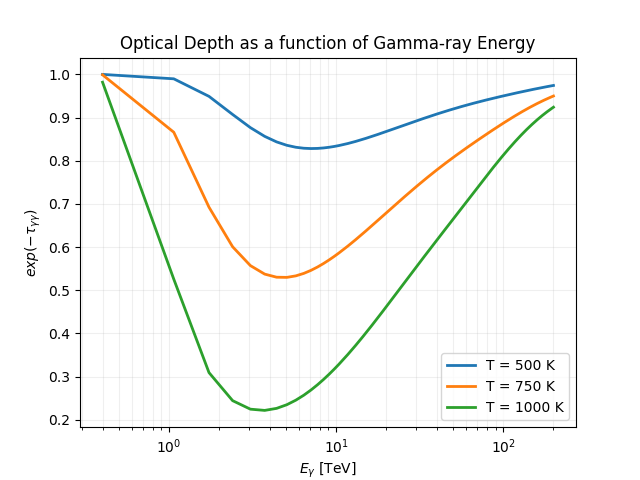
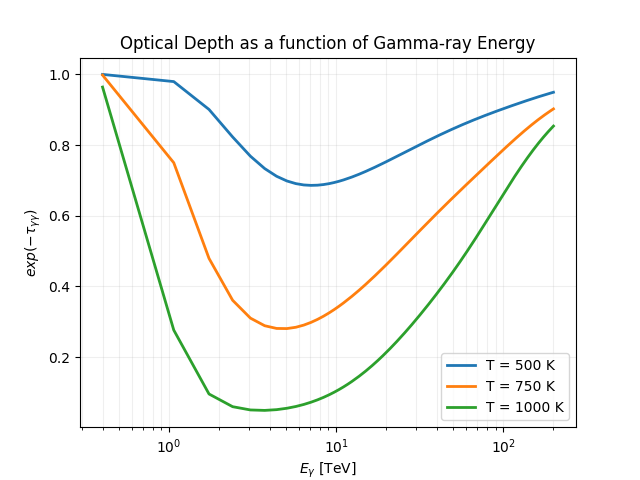
Minor change in params:norm of soft photon dist & its characteristic length scale

diff --git a/cascade_rad/calc_opt_depth.py b/cascade_rad/calc_opt_depth.py
@@ -52,6 +52,7 @@ class EMCascade(object):
 
     def _softphoton_dist(self, e):
         """ Planckian BB spectrum : No. of photons / energy / cm3
+        Arbitrarily chosen norm. Should norm be left as free param?
         Parameters
         ----------
         e : float
@@ -59,7 +60,7 @@ class EMCascade(object):
         """
         kT = ((k_B * self.T).to('eV').value) / _mec2
         hc = hbar.to('eV s') * c.cgs
-        norm = (_mec2_u ** 2) / ((hc ** 3) * (np.pi ** 2))
+        norm = 0.2 * (_mec2_u ** 2) / ((hc ** 3) * (np.pi ** 2))
         num = e ** 2
         denom = (np.exp(e / kT)) - 1
 
@@ -106,7 +107,7 @@ class EMCascade(object):
 
 if __name__ == '__main__':
     Tarr = [500, 750, 1000] * u.K
-    s = 0.1 * u.kpc
+    s = 1 * u.kpc
 
     Emin = 4e2 * u.GeV
     Emax = 2e2 * u.TeV
